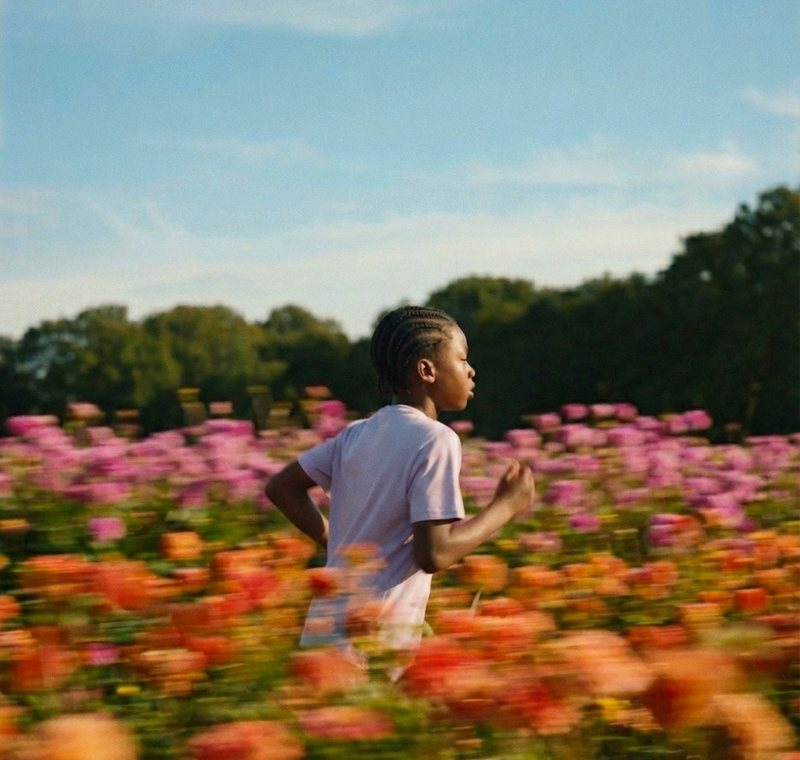
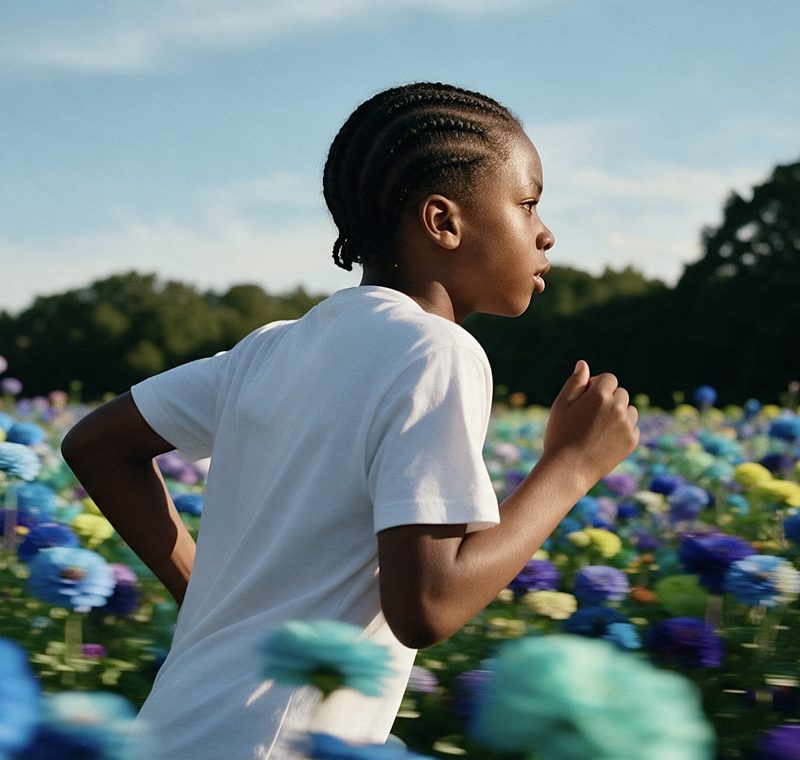
Atlas: fixed default spot and card always below; Product shots picture 4 is the running boy (#37)
Claude-Session: https://claude.ai/code/session_013DGrz9f3qFoYRsQEBwWjw9

diff --git a/src/components/create/AgentWidget.tsx b/src/components/create/AgentWidget.tsx
@@ -8,7 +8,6 @@ import { uploadPicture, uploadVideo } from "@/lib/use-uploads";
 import { readCurrentProject } from "@/lib/projects";
 import { CUE_EVENT, takeCue } from "@/lib/use-agent";
 
-const POS_KEY = "eclipse-agent-widget-pos";
 const SIZE = 64;
 
 // The agent as a little 3D character: a ball that always stays round, with two eyes that sit on its surface and travel round it. It floats, blinks, turns its head toward your
@@ -54,10 +53,9 @@ export default function AgentWidget({ name, watch }: { name: string; watch?: str
   const clamp = (x: number, y: number) => ({ x: Math.min(Math.max(0, x), window.innerWidth - SIZE), y: Math.min(Math.max(0, y), window.innerHeight - SIZE) });
 
   useEffect(() => {
-    let p: { x: number; y: number } | null = null;
-    try { const raw = JSON.parse(localStorage.getItem(POS_KEY) ?? "null"); if (raw && typeof raw.x === "number" && typeof raw.y === "number") p = raw; } catch {}
-    // Default stance: parked on the left edge, just above the prompt box, facing in toward the screen.
-    setPos(clamp(p?.x ?? 0, p?.y ?? Math.round(window.innerHeight * 0.555)));
+    // Every time the agent is switched on it stands in the same default spot (user 2026-10-19): the left edge, about a quarter of the way down.
+    // Dragging moves it for this visit only; nothing is remembered.
+    setPos(clamp(0, Math.round(window.innerHeight * 0.235)));
     const onResize = () => setPos((q) => (q ? clamp(q.x, q.y) : q));
     window.addEventListener("resize", onResize);
     return () => window.removeEventListener("resize", onResize);
@@ -171,17 +169,16 @@ export default function AgentWidget({ name, watch }: { name: string; watch?: str
     drag.current = null;
     setDragging(false);
     if (!d) return;
-    if (d.moved) { try { localStorage.setItem(POS_KEY, JSON.stringify(pos)); } catch {} }
     else { setOpen(true); setHop(true); window.setTimeout(() => setHop(false), 1000); }
   }
 
-  // The card opens on the side of the button with more room.
+  // The card always opens below the agent.
   const cardLeft = Math.min(Math.max(8, pos.x + SIZE / 2 - 130), window.innerWidth - 268);
-  const cardTop = pos.y > window.innerHeight / 2 ? pos.y - 8 : pos.y + SIZE + 8;
+  const cardTop = pos.y + SIZE + 8;
   return (
     <>
       {open && (
-        <div className={`aw-card ${big ? "is-big" : ""}`} role="dialog" aria-label={`${name} chat`} style={big ? undefined : { left: cardLeft, top: cardTop, transform: pos.y > window.innerHeight / 2 ? "translateY(-100%)" : undefined }}>
+        <div className={`aw-card ${big ? "is-big" : ""}`} role="dialog" aria-label={`${name} chat`} style={big ? undefined : { left: cardLeft, top: cardTop }}>
           <div className="aw-head"><AgentIcon size={16} /><b>{name}</b>
             <button type="button" aria-label="Chat history" title="Chat history" className={showPast ? "is-on" : ""} onClick={() => setShowPast((v) => !v)}><History size={15} /></button>
             <button type="button" aria-label="New chat" title="New chat" disabled={chat.busy} onClick={() => { chat.newChat(); setShowPast(false); }}><SquarePen size={14} /></button>

diff --git a/CLAUDE.md b/CLAUDE.md
@@ -328,3 +328,4 @@ Agents are skilled creative partners the user picks on the Agents page (currentl
 - **JSON knowledge documents for Atlas and the AI Master Engine (2026-10-19, owner uploaded "Image to JSON — Instruction" and "A1 JSON Prompt Writer — Instruction" from their ChatGPT custom GPTs, then asked for them to be REWORDED for our assistants):** the originals are kept unchanged in `docs/prompt-engines/knowledge/original/`; the Eclipse versions are `docs/prompt-engines/knowledge/image-to-json.md` and `a1-json-prompt-writer.md` (all the owner's rules, schema, workflow and checklists kept; reworded: the A1 knowledge file `a1_prompt_pack.txt` the GPT read is replaced by a written "A1 reference style" section built from the document's own principles, "Nano Banana, flux, DALL-E" became the models Eclipse runs, a missing picture is asked for instead of invented, and "output only JSON in a code block" became "as set by YOUR DELIVERY RULES"), generated into `src/lib/json-knowledge.ts` (edit both). `jsonKnowledge("master")` is appended to the AI Master Engine (delivery: one ```json code block, nothing before or after, under 8,000 characters unless another model is named) and `jsonKnowledge("atlas")` to Atlas (point 5 in `agent-personas.ts`; delivery: the whole JSON through `suggest_prompt`/`propose_generation`, one line of text, within the prompt limit of the model in the context: Nano Banana 8,000, GPT Image 32,000, Seedream 3,000, most others 2,000; compact and trimmed, never cut). Not given to custom agents or the Kling/Seedance engines. If the owner sends `a1_prompt_pack.txt`, add it as a third document. Supporting changes: `agent-reply.ts` keeps prompts up to 32,000 characters (was 5,000; a JSON object over 8,000 characters is written on one line), Atlas and Prompts answers may use 8,000 output tokens, Prompts `maxDuration` 120. Cost: about 5,000 extra input tokens on every Atlas and AI Master message. `json-knowledge.ts` is on the i18n skip list. Unit-tested (docs match, no GPT-only wording, who carries what, long JSON kept whole); NOT tested against the live API.
 - **Seedance 2.5 director and Kling 4 UGC (2026-10-19, owner uploaded the Seedance "Knowledge Updated + Status Tracker" document and the "Character Sheet Update" file, asked to adapt them for the Prompts tab AND Atlas, and to rename the tabs):** supersedes the 2026-10-17 "Seedance 2.0 Storyboard Director is ON in Prompts" entry (its summary text is kept in `docs/prompt-engines/knowledge/original/`). The director is now THREE of the owner's documents merged in `docs/prompt-engines/knowledge/seedance-director.md`: PART 1 their GPT instructions (the earlier summary), PART 2 their knowledge file (the exact ten intake questions with suggestions and recommendations, runtime formula, status tracker, strict phase lock, dialogue rules, Part 2+ continuity template), PART 3 their character sheet update (four sections per character, negative prompt, the stop question); "Seedance 2.0" became "Seedance 2.5", GPT wording ("this GPT", "custom GPT instructions") was reworded, the knowledge file's conversation starters and test prompt were left out, and where the parts word a required line differently PART 1 wins. Eclipse's own `docs/prompt-engines/knowledge/seedance-delivery.md` adds, per host, what the assistant cannot do (no images, no browsing, so "search online" becomes "use what you know and say you are not browsing") and how it hands answers over, plus the Seedance 2.5 facts of our Video Studio (4 to 30 s, 480p to 1080p, reference mode with up to 30 pictures, 10 clips and 10 sounds, attachments numbered image 1 / video 1 in the order added, so prompts say "image 1" instead of @ placeholders: whether Seedance reads @ tags is NOT verified). Generated into `src/lib/seedance-knowledge.ts` (edit both). PROMPTS TAB: `seedanceKnowledge("prompts")` is the engine's system prompt: each prompt in its own code block, boards and character sheets for Image Studio at 16:9, Seedance prompts for Video Studio. ATLAS: `seedanceKnowledge("atlas")` is added to Atlas's system prompt ONLY while the conversation (or the model in the box) mentions Seedance or a storyboard (`wantsSeedance`, in `/api/agent/chat`; it adds about 6,000 input tokens, charged as chat credits); Atlas delivers ONE prompt per reply through `suggest_prompt` (so it fills the prompt box) with the status lines in plain text. Tab names: "Seedance 2.5" (was Seedance 2.0) and "Kling 4 UGC" (was Kling 3.0 UGC): the Kling engine's own text was renamed Kling 4 throughout but its RULES are unchanged and were written for Kling 3.0; our Video Studio has no Kling 4 model yet (its Kling models are 3.0, 2.6 and 2.5), the landing model card and prices still say Kling 3.0. Unit-tested (docs match code, each host gets its own delivery rules, Atlas loads the director only on topic); NOT tested against the live API.
 - **Product shots card pictures (2026-10-19, owner):** the Explore collections card "Product shots" on the dashboard (`public/dashboard/product-1..4.jpg`) now shows, in order, the original picture 1 (the model in the blue tee), then the owner's tulip (2), the white-helmet biker on the desert road (3) and the runner in the flower field (4); 2 to 4 are cropped to the tile shape (800x760) from the owner's uploads (the 2,816 px biker and 1,024 px tulip are not kept). Replacing a picture later: keep the file names and the 800x760 shape.
+- **Atlas default spot and Product shots picture 4 (2026-10-19, owner, after a phone screenshot of Core):** the floating agent (`AgentWidget.tsx`) now ALWAYS appears at the same default spot whenever it is switched on: left edge, 23.5% of the window height down (the owner's screenshot; was 55.5%), and the old saved position (`eclipse-agent-widget-pos`) is no longer read or written (dragging moves it for that visit only). His chat card always opens BELOW him (no flipping above when he is low on the screen). Product shots picture 4 is now the owner's boy running in the flower field (cropped to 800x760). Browser-checked? No: type check and lint only; NOT seen on a real iPhone.
